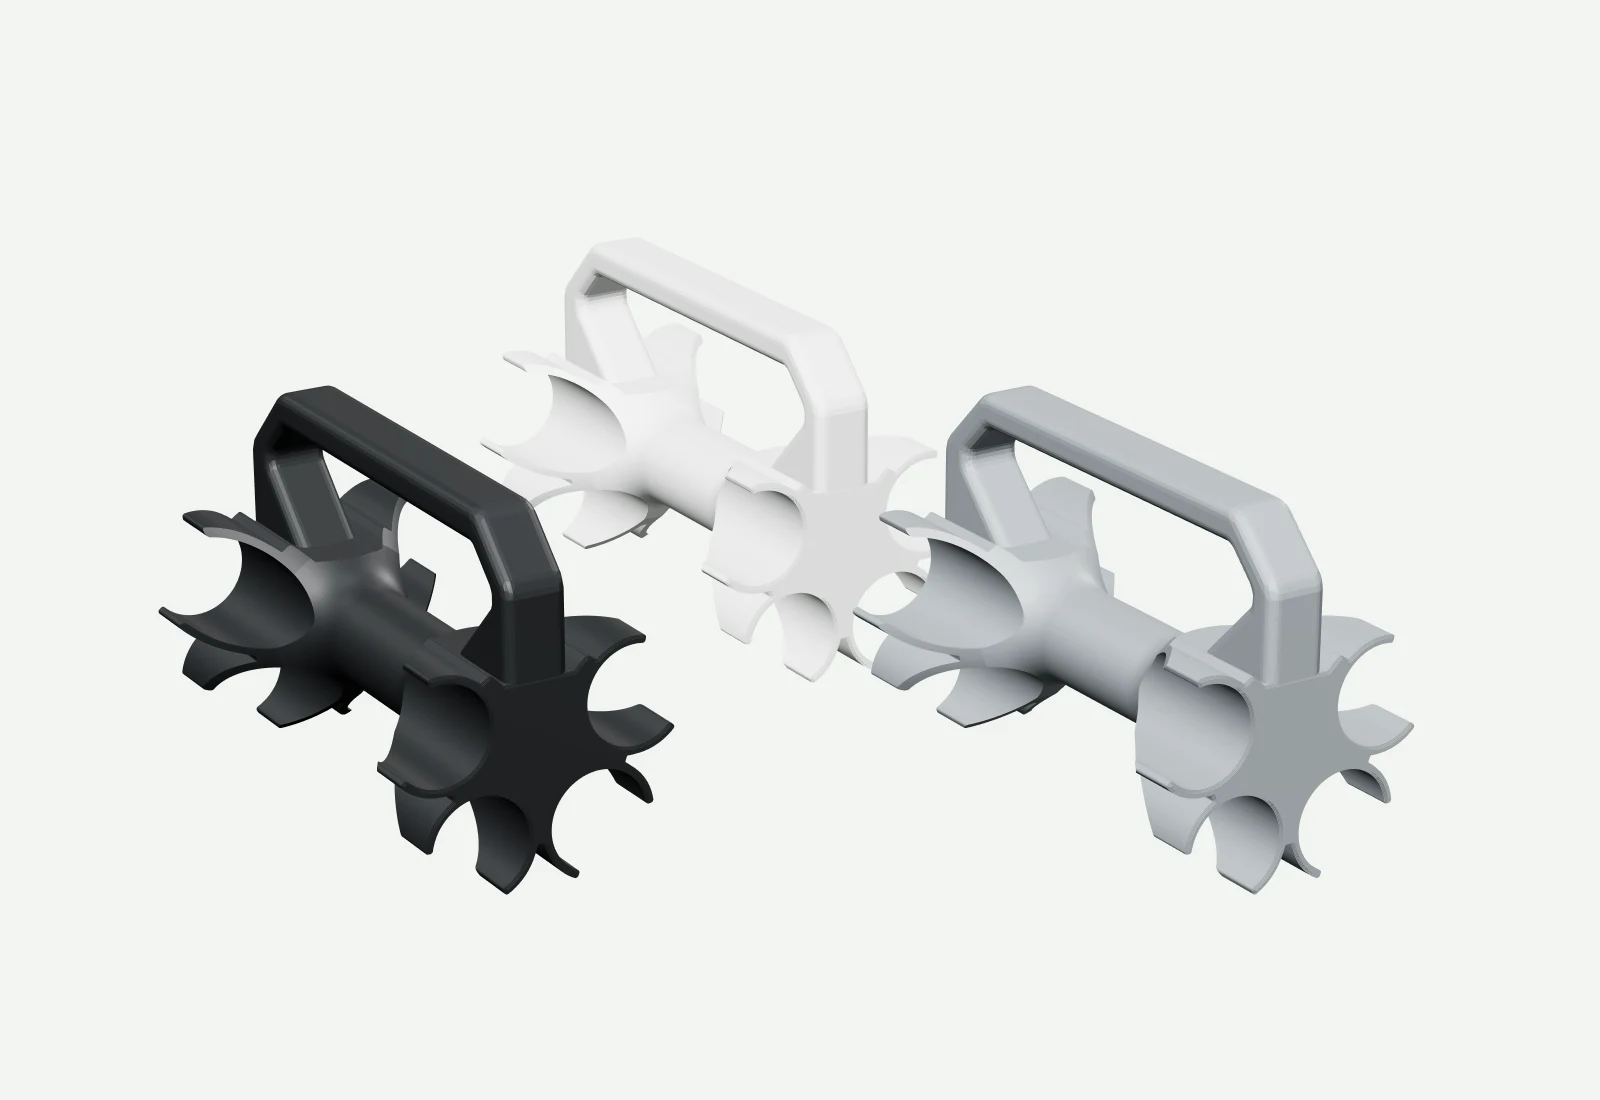
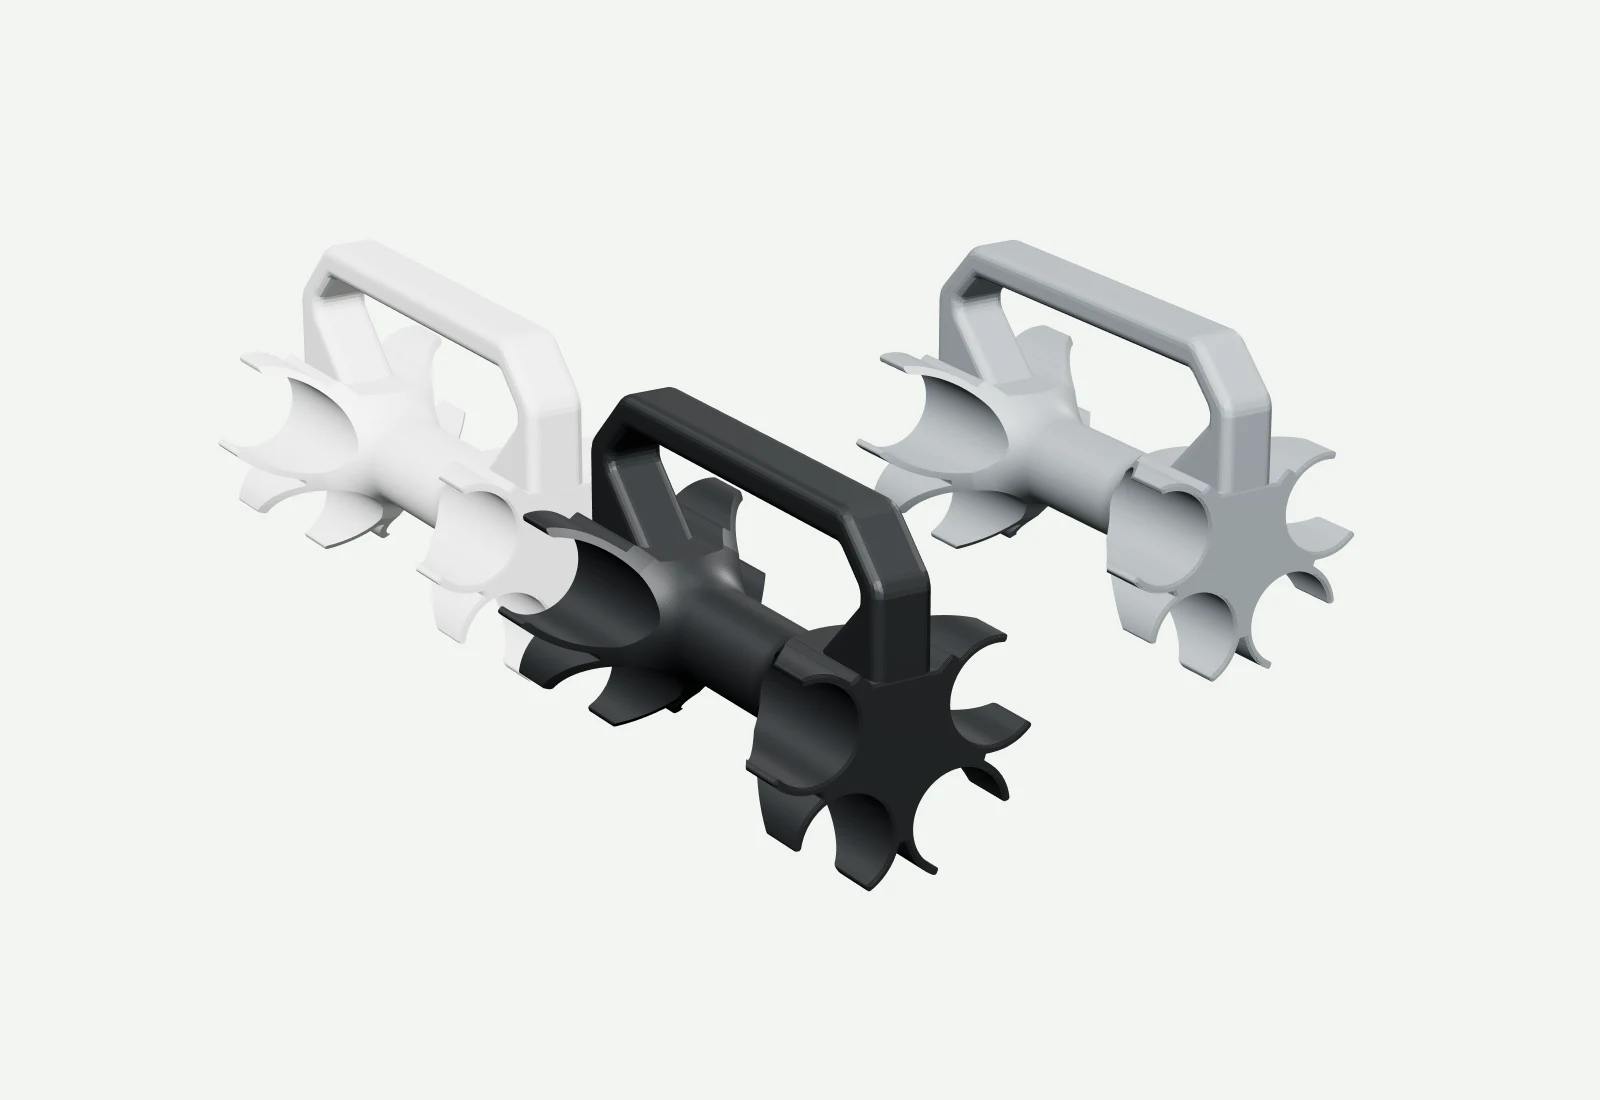
Shop: forsidebilledet viser nu den sorte benholder forrest i midten og den hvide og den graa bagved, saa de tre danner en trekant

Changed region(s): [[0.0938, 0.2164, 0.9062, 0.8036], [0.25, 0.2782, 0.3125, 0.34], [0.4688, 0.3091, 0.5, 0.34]]

diff --git a/shop/index.html b/shop/index.html
@@ -38,7 +38,7 @@
           <a class="knap sekundaer" href="#saadan">Sådan virker det</a>
         </div>
       </div>
-      <img class="helt-billede" src="/shop/billeder/forside.webp?v=3" alt="Benholderen i sort, hvid og grå" width="1600" height="1100" fetchpriority="high">
+      <img class="helt-billede" src="/shop/billeder/forside.webp?v=4" alt="Benholderen i sort, hvid og grå" width="1600" height="1100" fetchpriority="high">
     </div>
   </section>
 
